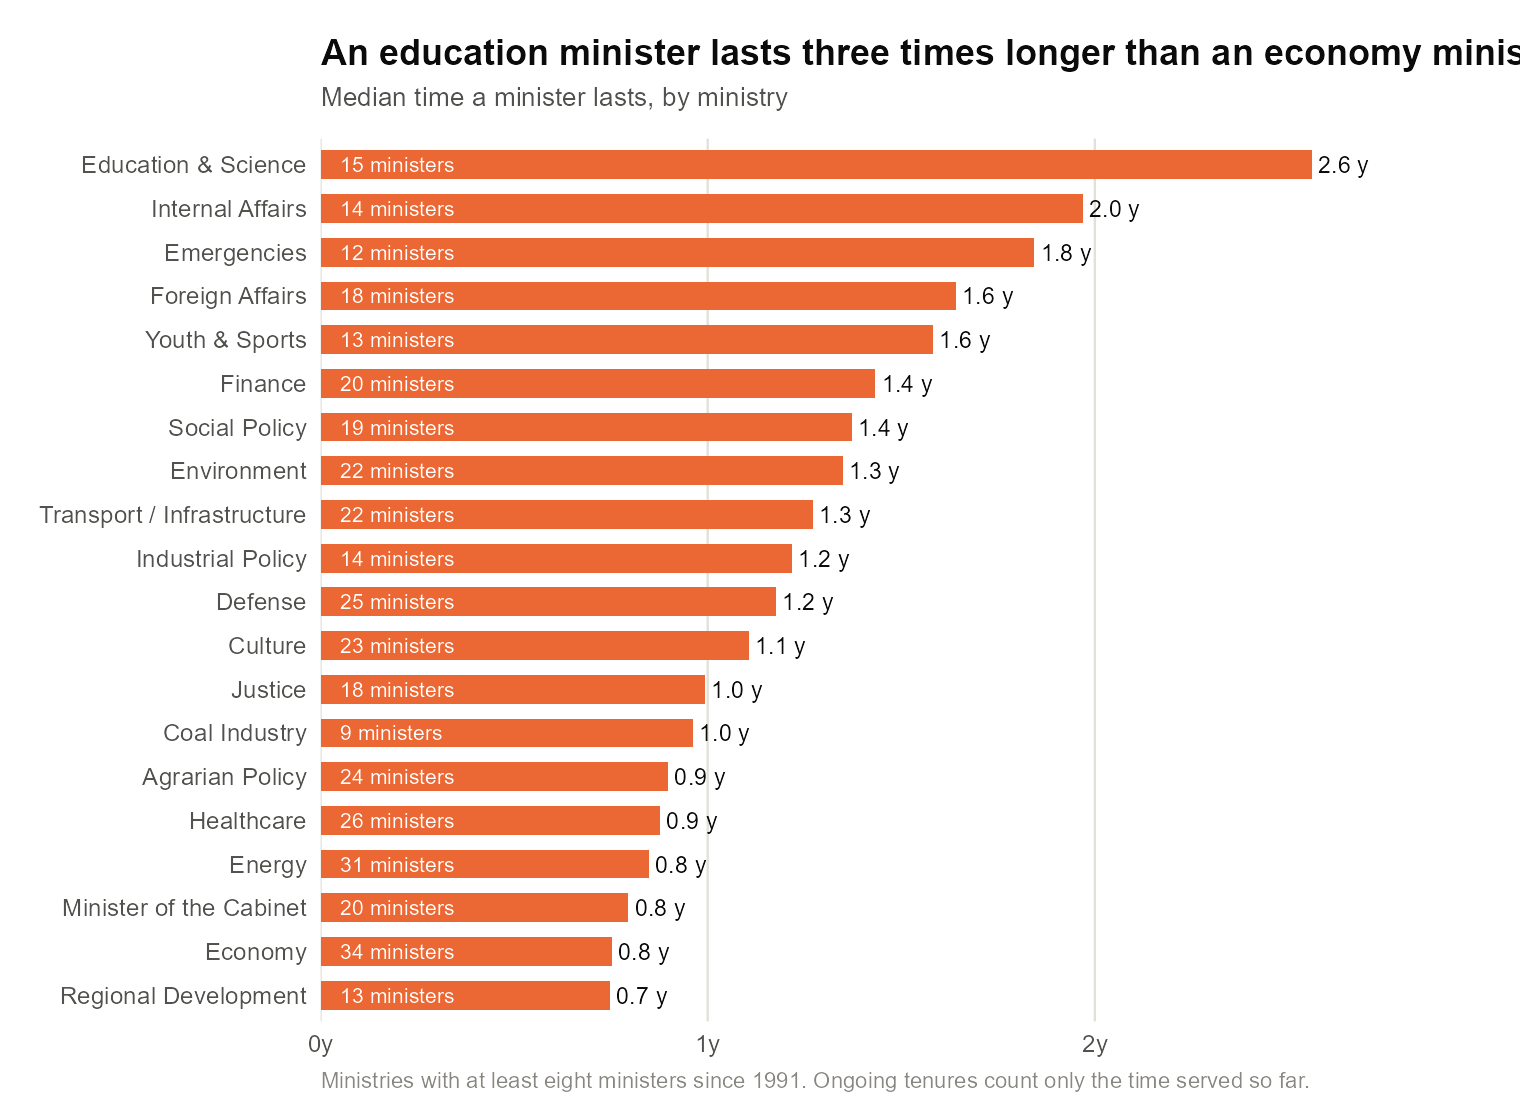
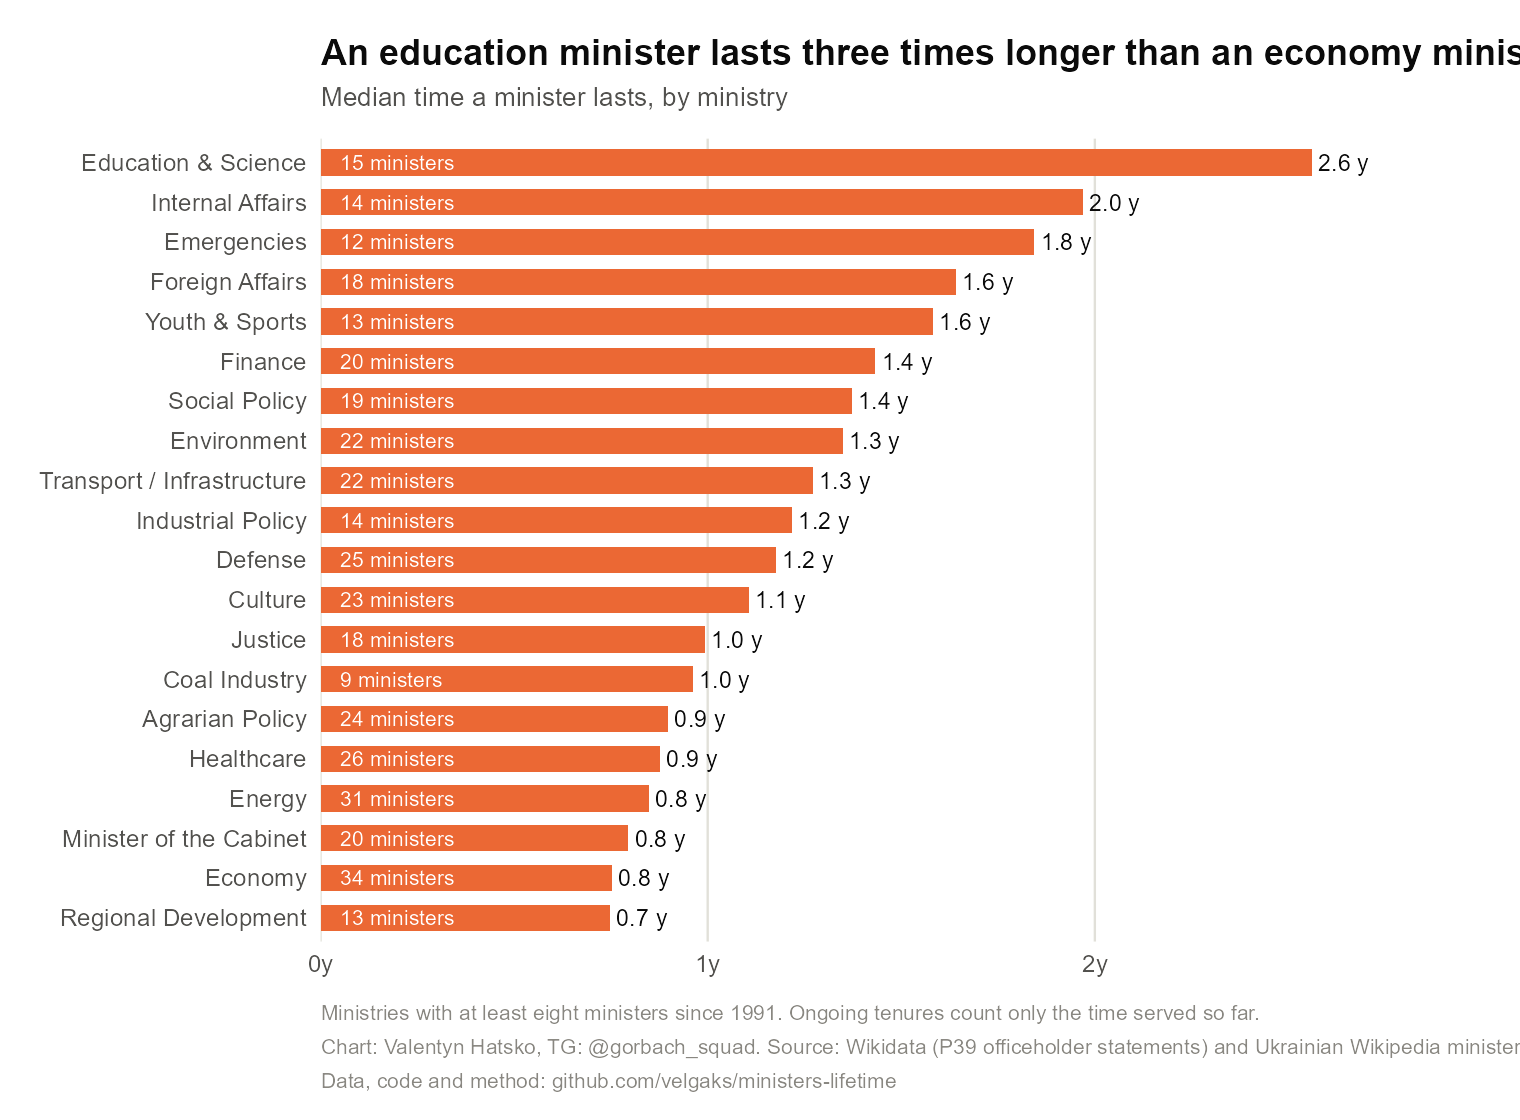
Add attribution to every chart; tighten the trend panel
Trend panel (interactive page):
- Rolling median window narrowed from +-3.5 years to +-1.5 years, so the 2005,
  2014 and 2020 shocks show as shocks instead of being flattened into the trend.
  Grid stepped from two months to one to match.
- Statistics now stop at the government change of 16 July 2026 rather than the
  collection date. Ministers appointed in that reshuffle had been in office about
  a week; counting them dragged every recent figure down for no reason but when
  the data happened to be gathered. This brings the page into agreement with the
  R analysis, and moves the headline from -30% to -19%.
- The seven longest tenures are now named on the scatter, placed greedily
  (right, left, above, below) and skipped rather than allowed to collide.
  Patronymics are trimmed for labels only, because the source data mixes
  "Surname Given Patronymic" with "Given Surname".
- The timeline itself still shows every tenure including the new cabinet; only
  the statistics apply the cutoff.

Attribution, on every chart and on the page footer:
- method note, then "Chart: Valentyn Hatsko, TG: @gorbach_squad" with the data
  source, then a link to this repository. A screenshot travelling on its own can
  now be credited and checked. Built in R through a cap() helper so no chart can
  omit it, and translated in both page languages.

Also fixes an invasion-year annotation clipped off the right edge of the
appointments-per-year chart.
[…]

diff --git a/viz/app.js b/viz/app.js
@@ -35,7 +35,7 @@
         "Кожен прямокутник — одна безперервна каденція. Напівпрозорі — виконувачі обов'язків (в.о.). Клік відкриває Вікіпедію.",
       trendTitle: "Чи стали каденції коротшими?",
       trendCap:
-        "Кожна точка — один міністр (без прем'єрів): дата призначення проти тривалості каденції. Лінія — ковзна медіана (±3,5 року). Кільця — чинні міністри (каденція ще триває, тож це нижня межа). Останні роки лінії напівпрозорі — дані ще «не дозріли».",
+        "Кожна точка — один міністр (без прем'єрів): дата призначення проти тривалості каденції. Лінія — ковзна медіана (вікно ±1,5 року). Кільця — міністри, які були на посаді на момент зміни уряду (це нижня межа). Підписані найдовші каденції. Останній відрізок лінії напівпрозорий — найновіші призначення ще «не дозріли».",
       eraTitle: "Медіанна каденція за президентами",
       eraCap: "Міністри, призначені за каденції відповідного президента.",
       recordsTitle: "Рекорди",
@@ -68,8 +68,10 @@
       heroCapB: "призначені у 2016–2026",
       heroNote:
         "Медіана враховує і в.о., і чинних міністрів (для чинних тривалість рахується до сьогодні — це нижня межа). Прем'єр-міністри в статистику не входять. Перемикач вище дозволяє прибрати в.о.",
+      credit: "Графіка: Валентин Гацко, TG: @gorbach_squad.",
+      repo: "Дані, код і метод: github.com/velgaks/ministers-lifetime",
       footer:
-        "Джерела: Wikidata (позиції P39) + Українська Вікіпедія (списки міністрів; виправлення зафіксовані у patches.json). Ранні галузеві міністерства 1990-х (машинобудування, зв'язку тощо) не охоплені. Каденції, що почалися до 24.08.1991, обрізані на дату незалежності. Зібрано ",
+        "Джерело: Wikidata (твердження про посади P39) та Українська Вікіпедія (списки міністрів), отримано в липні 2026 року; усі виправлення з посиланнями на джерела — у data/patches.json. Статистика завершується зміною уряду 16 липня 2026 року: міністри, призначені тоді, пробули на посаді близько тижня. Ранні галузеві міністерства 1990-х (машинобудування, зв'язку тощо) не охоплені. Каденції, що почалися до 24.08.1991, обрізані на дату незалежності. Зібрано ",
       years: (y) => {
         const yi = Math.floor(y);
         const f = yi % 10, ff = yi % 100;
@@ -94,7 +96,7 @@
         "Each rectangle is one continuous tenure. Translucent = acting ministers. Click opens Wikipedia.",
       trendTitle: "Are tenures getting shorter?",
       trendCap:
-        "Each dot is one minister (PMs excluded): appointment date vs tenure length. The line is a rolling median (±3.5 years). Rings are current ministers (still serving, so a lower bound). The line's last years are translucent — that data hasn't 'matured' yet.",
+        "Each dot is one minister (PMs excluded): appointment date vs tenure length. The line is a rolling median (±1.5-year window). Rings are ministers still in office when the government changed, so a lower bound. The longest tenures are named. The line's final stretch is translucent — the newest appointments have not 'matured' yet.",
       eraTitle: "Median tenure by president",
       eraCap: "Ministers appointed during each president's time in office.",
       recordsTitle: "Records",
@@ -127,8 +129,10 @@
       heroCapB: "appointed 2016–2026",
       heroNote:
         "The median includes acting and current ministers (current tenures are counted up to today — a lower bound). Prime ministers are excluded from the stats. Use the toggle above to drop acting ministers.",
+      credit: "Chart: Valentyn Hatsko, TG: @gorbach_squad.",
+      repo: "Data, code and method: github.com/velgaks/ministers-lifetime",
       footer:
-        "Sources: Wikidata (P39 positions) + Ukrainian Wikipedia (minister lists; corrections tracked in patches.json). Early-1990s branch ministries (machine-building, communications, etc.) are not covered. Tenures that began before 24 Aug 1991 are clipped at independence. Built ",
+        "Source: Wikidata (P39 officeholder statements) and Ukrainian Wikipedia minister lists, retrieved July 2026; every correction is recorded with its source in data/patches.json. Statistics end at the government change of 16 July 2026 — ministers appointed then had been in office about a week. Early-1990s branch ministries (machine-building, communications, etc.) are not covered. Tenures that began before 24 Aug 1991 are clipped at independence. Built ",
       years: (y) => {
         const yi = Math.floor(y);
         return yi === 1 ? "1 year" : `${yi} years`;
@@ -203,7 +207,25 @@
       ? "f-" + eraOf(ten.start).id
       : "f-dur-" + durBucket(ten.days);
   }
-  const ministersOnly = () => DATA.tenures.filter((x) => x.lineage !== "pm");
+  // Statistics stop at the July 2026 government change. Ministers appointed
+  // then had been in office about a week; counting them drags every recent
+  // figure down for no reason but when the data was collected. The timeline
+  // above still shows them — only the numbers below exclude them.
+  const WINDOW_END = D("2026-07-16");
+  const ministersOnly = () =>
+    DATA.tenures
+      .map((x, i) => ({ x, i }))
+      .filter(({ x }) => x.lineage !== "pm" && D(x.start) < WINDOW_END)
+      .map(({ x, i }) => {
+        const ended = x.end && D(x.end) < WINDOW_END;
+        const endEff = ended ? D(x.end) : WINDOW_END;
+        return {
+          ...x,
+          _idx: i,
+          days: Math.max(1, Math.round((endEff - D(x.start)) / MS_DAY)),
+          ongoing: !ended,
+        };
+      });
   const statsPool = () =>
     ministersOnly().filter((x) => !(state.exclActing && x.acting));
   function median(xs) {
@@ -223,6 +245,17 @@
   }
   const nameOf = (x) =>
     state.lang === "uk" ? x.name_uk || x.name_en : x.name_en || x.name_uk;
+  // Source names mix "Surname Given Patronymic" with "Given Surname". For chart
+  // labels drop the patronymic so the annotations stay short and comparable;
+  // tooltips and the table keep the full form.
+  const shortName = (x) => {
+    const parts = nameOf(x).split(/\s+/);
+    if (parts.length < 3) return nameOf(x);
+    const kept = parts.filter(
+      (p) => !/(ович|евич|євич|йович|івна|ївна|овна|евна)$/i.test(p)
+    );
+    return (kept.length >= 2 ? kept : parts).slice(0, 2).join(" ");
+  };
   const lnameOf = (l) => (state.lang === "uk" ? l.name_uk : l.name_en);
 
   // ------------------------------------------------------------- tooltip
@@ -489,7 +522,7 @@
     const plotW = width - mL - mR, plotH = height - mT - mB;
     const maxY = Math.max(...pool.map((p) => p.days)) / YEAR_DAYS;
     const yMax = Math.ceil(maxY);
-    const x = (dateStr) => mL + ((D(dateStr) - T0) / (T1 - T0)) * plotW;
+    const x = (dateStr) => mL + ((D(dateStr) - T0) / (WINDOW_END - T0)) * plotW;
     const y = (days) => mT + plotH - (days / YEAR_DAYS / yMax) * plotH;
 
     const svg = svgel("svg", { width, height, viewBox: `0 0 ${width} ${height}`, role: "img", "aria-label": t("trendTitle") });
@@ -501,29 +534,32 @@
       lbl.textContent = yy;
       svg.appendChild(lbl);
     }
-    for (let yr = 1995; yr <= T1.getFullYear(); yr += 5) {
+    for (let yr = 1995; yr <= WINDOW_END.getFullYear(); yr += 5) {
       const px = x(`${yr}-01-01`);
       const lbl = svgel("text", { x: px, y: height - 8, class: "axis", "text-anchor": "middle" });
       lbl.textContent = yr;
       svg.appendChild(lbl);
     }
 
-    // rolling median: monthly grid, +-42-month window, min 8 points
+    // Rolling median on a monthly grid. A +-18-month window (3 years total)
+    // tracks the shocks; anything wider flattens 2005 and 2014 into the trend.
     const pts = pool
       .map((p) => ({ t: D(p.start).getTime(), days: p.days }))
       .sort((a, b) => a.t - b.t);
-    const win = 42 * 30.44 * MS_DAY;
+    const win = 18 * 30.44 * MS_DAY;
     const pathPts = [];
-    for (let d = new Date(1993, 0, 1); d <= T1; d = new Date(d.getFullYear(), d.getMonth() + 2, 1)) {
+    for (let d = new Date(1993, 0, 1); d <= WINDOW_END; d = new Date(d.getFullYear(), d.getMonth() + 1, 1)) {
       const tt = d.getTime();
       const sel = pts.filter((p) => Math.abs(p.t - tt) <= win).map((p) => p.days);
       pathPts.push(sel.length >= 8 ? { t: tt, v: median(sel) } : null);
     }
-    const matured = T1.getTime() - 2 * YEAR_DAYS * MS_DAY;
+    // The last stretch is drawn faint: with an 18-month half-window the newest
+    // appointments have not had time to reveal how long they will last.
+    const matured = WINDOW_END.getTime() - 1.5 * YEAR_DAYS * MS_DAY;
     let dSolid = "", dProv = "", pen = false, penP = false;
     pathPts.forEach((p) => {
       if (!p) { pen = penP = false; return; }
-      const px = mL + ((p.t - T0.getTime()) / (T1 - T0)) * plotW;
+      const px = mL + ((p.t - T0.getTime()) / (WINDOW_END - T0)) * plotW;
       const py = y(p.v);
       if (p.t <= matured) {
         dSolid += (pen ? "L" : "M") + px.toFixed(1) + " " + py.toFixed(1);
@@ -539,7 +575,7 @@
 
     // dots
     pool.forEach((ten) => {
-      const idx = DATA.tenures.indexOf(ten);
+      const idx = ten._idx;
       const cls = state.colorBy === "era" ? "f-" + eraOf(ten.start).id : "f-dur-" + durBucket(ten.days);
       const c = svgel("circle", {
         cx: x(ten.start).toFixed(1), cy: y(ten.days).toFixed(1), r: 4.5,
@@ -548,6 +584,35 @@
       });
       attachTenureEvents(c, ten, idx);
       svg.appendChild(c);
+    });
+
+    // Name the standout long tenures. Placement is greedy: try right of the dot,
+    // then left, then above/below, and skip the label entirely rather than let
+    // it collide with one already placed or run outside the plot.
+    const placed = [];
+    [...pool].sort((a, b) => b.days - a.days).slice(0, 7).forEach((ten) => {
+      const cx = x(ten.start), cy = y(ten.days);
+      const text = shortName(ten);
+      const w = text.length * 5.3, h = 11;
+      const options = [
+        [cx + 9, cy + 3.5, "start"],
+        [cx - 9, cy + 3.5, "end"],
+        [cx, cy - 9, "middle"],
+        [cx, cy + 15, "middle"],
+      ];
+      for (const [tx, ty, anchor] of options) {
+        const x0 = anchor === "start" ? tx : anchor === "end" ? tx - w : tx - w / 2;
+        const box = { x0, x1: x0 + w, y0: ty - h, y1: ty + 3 };
+        const clashes = placed.some(
+          (p) => !(box.x1 < p.x0 || box.x0 > p.x1 || box.y1 < p.y0 || box.y0 > p.y1)
+        );
+        if (clashes || box.x0 < mL || box.x1 > mL + plotW || box.y0 < mT) continue;
+        placed.push(box);
+        const lbl = svgel("text", { x: tx.toFixed(1), y: ty.toFixed(1), class: "outlier", "text-anchor": anchor });
+        lbl.textContent = text;
+        svg.appendChild(lbl);
+        break;
+      }
     });
 
     host.appendChild(svg);
@@ -691,7 +756,11 @@
     $("#era-title").textContent = t("eraTitle");
     $("#era-cap").textContent = t("eraCap");
     $("#table-summary").textContent = t("tableSummary");
-    $("#footer-text").textContent = t("footer") + DATA.meta.built + ".";
+    $("#footer-note").textContent = t("footer") + DATA.meta.built + ".";
+    $("#footer-credit").textContent = t("credit");
+    const repoLink = $("#footer-repo");
+    repoLink.textContent = t("repo");
+    repoLink.href = "https://github.com/velgaks/ministers-lifetime";
     const themeBtn = $("#theme-btn");
     const dark = document.documentElement.getAttribute("data-theme") === "dark" ||
       (!document.documentElement.getAttribute("data-theme") && window.matchMedia("(prefers-color-scheme: dark)").matches);

diff --git a/viz/style.css b/viz/style.css
@@ -150,6 +150,7 @@ svg .rowlabel.defunct { fill: var(--muted); }
 svg .axis { font-size: 11px; fill: var(--muted); }
 svg .eralabel { font-size: 11px; font-weight: 600; fill: var(--ink-2); }
 svg .eventlabel { font-size: 10.5px; fill: var(--muted); }
+svg .outlier { font-size: 10.5px; fill: var(--ink-2); pointer-events: none; }
 svg .gridline { stroke: var(--grid); stroke-width: 1; }
 svg .erabound { stroke: var(--baseline); stroke-width: 1; }
 svg .eventline { stroke: var(--muted); stroke-width: 1; }
@@ -249,5 +250,12 @@ table.dataview { border-collapse: collapse; width: 100%; font-size: 12.5px; }
 .dataview th { position: sticky; top: 0; background: var(--surface); color: var(--muted); font-weight: 600; }
 .dataview td.num { font-variant-numeric: tabular-nums; }
 
-footer { color: var(--muted); font-size: 12.5px; max-width: 100ch; }
-footer a { color: var(--ink-2); }
+/* attribution block: muted method note, then a strong credit line and repo link */
+footer { max-width: 104ch; margin-top: 22px; }
+footer .fnote {
+  color: var(--muted); font-size: 12px; line-height: 1.5; margin: 0 0 10px;
+  padding-top: 12px; border-top: 1px solid var(--border);
+}
+footer .fcredit { color: var(--ink); font-size: 12.5px; font-weight: 650; margin: 0; }
+footer .fcredit a { color: var(--ink-2); font-weight: 400; margin-left: 6px; }
+footer .fcredit a:hover { color: var(--accent); }

diff --git a/viz/index.html b/viz/index.html
@@ -58,7 +58,11 @@
     <div class="scrollx"><div id="table-host"></div></div>
   </details>
 
-  <footer><span id="footer-text"></span></footer>
+  <footer>
+    <p id="footer-note" class="fnote"></p>
+    <p class="fcredit"><span id="footer-credit"></span>
+      <a id="footer-repo" href="https://github.com/velgaks/ministers-lifetime" target="_blank" rel="noopener"></a></p>
+  </footer>
 </div>
 <div id="tooltip" role="tooltip"></div>
 <script src="data.js"></script>
